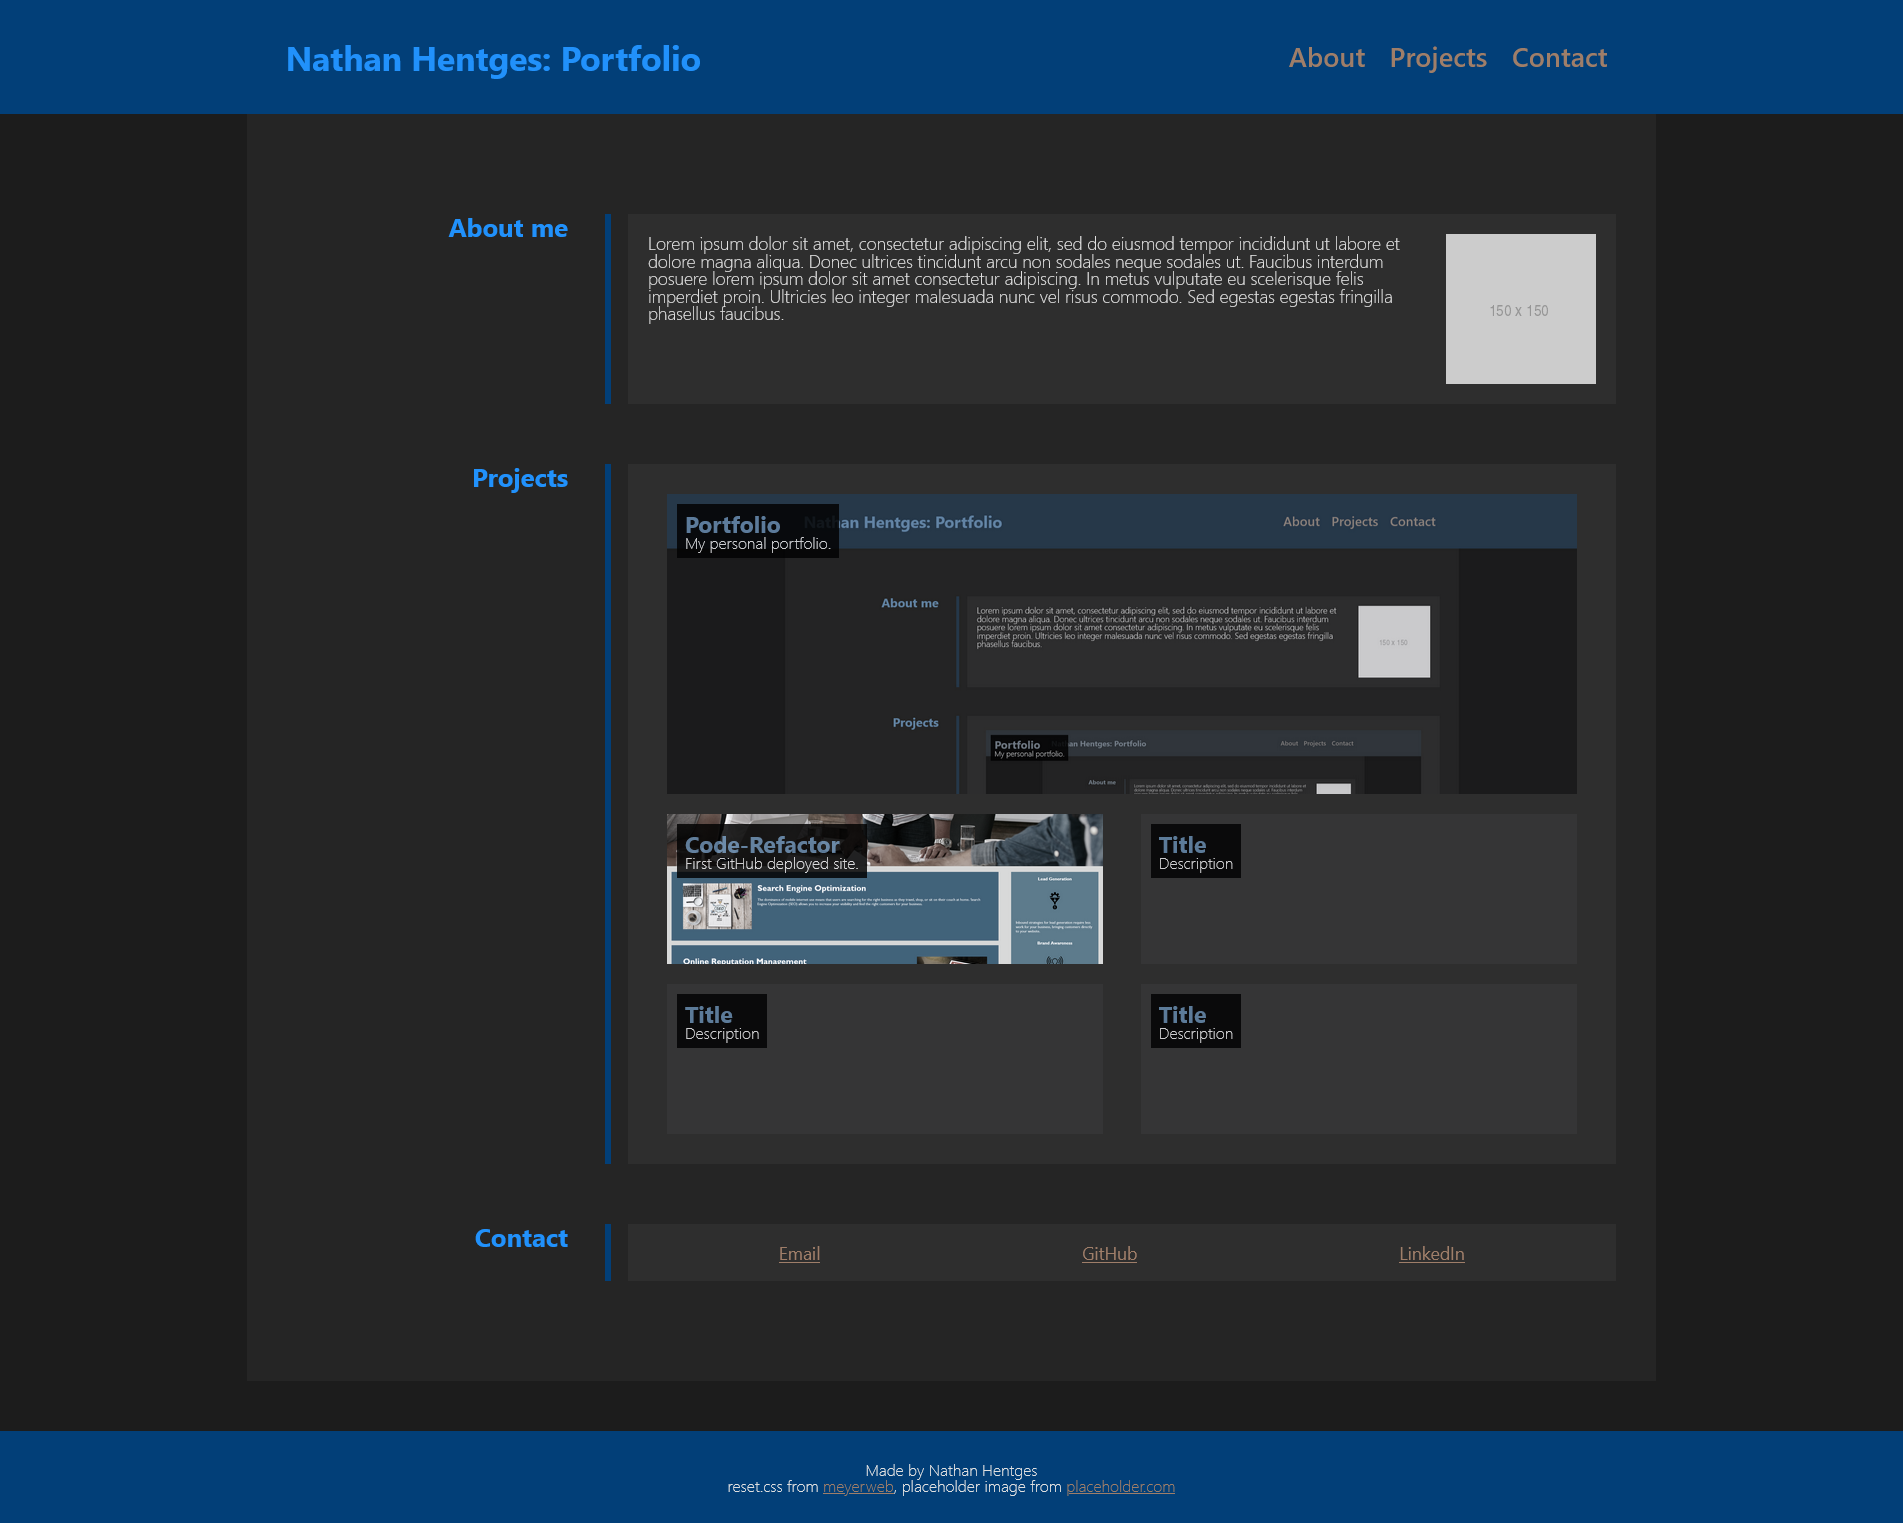
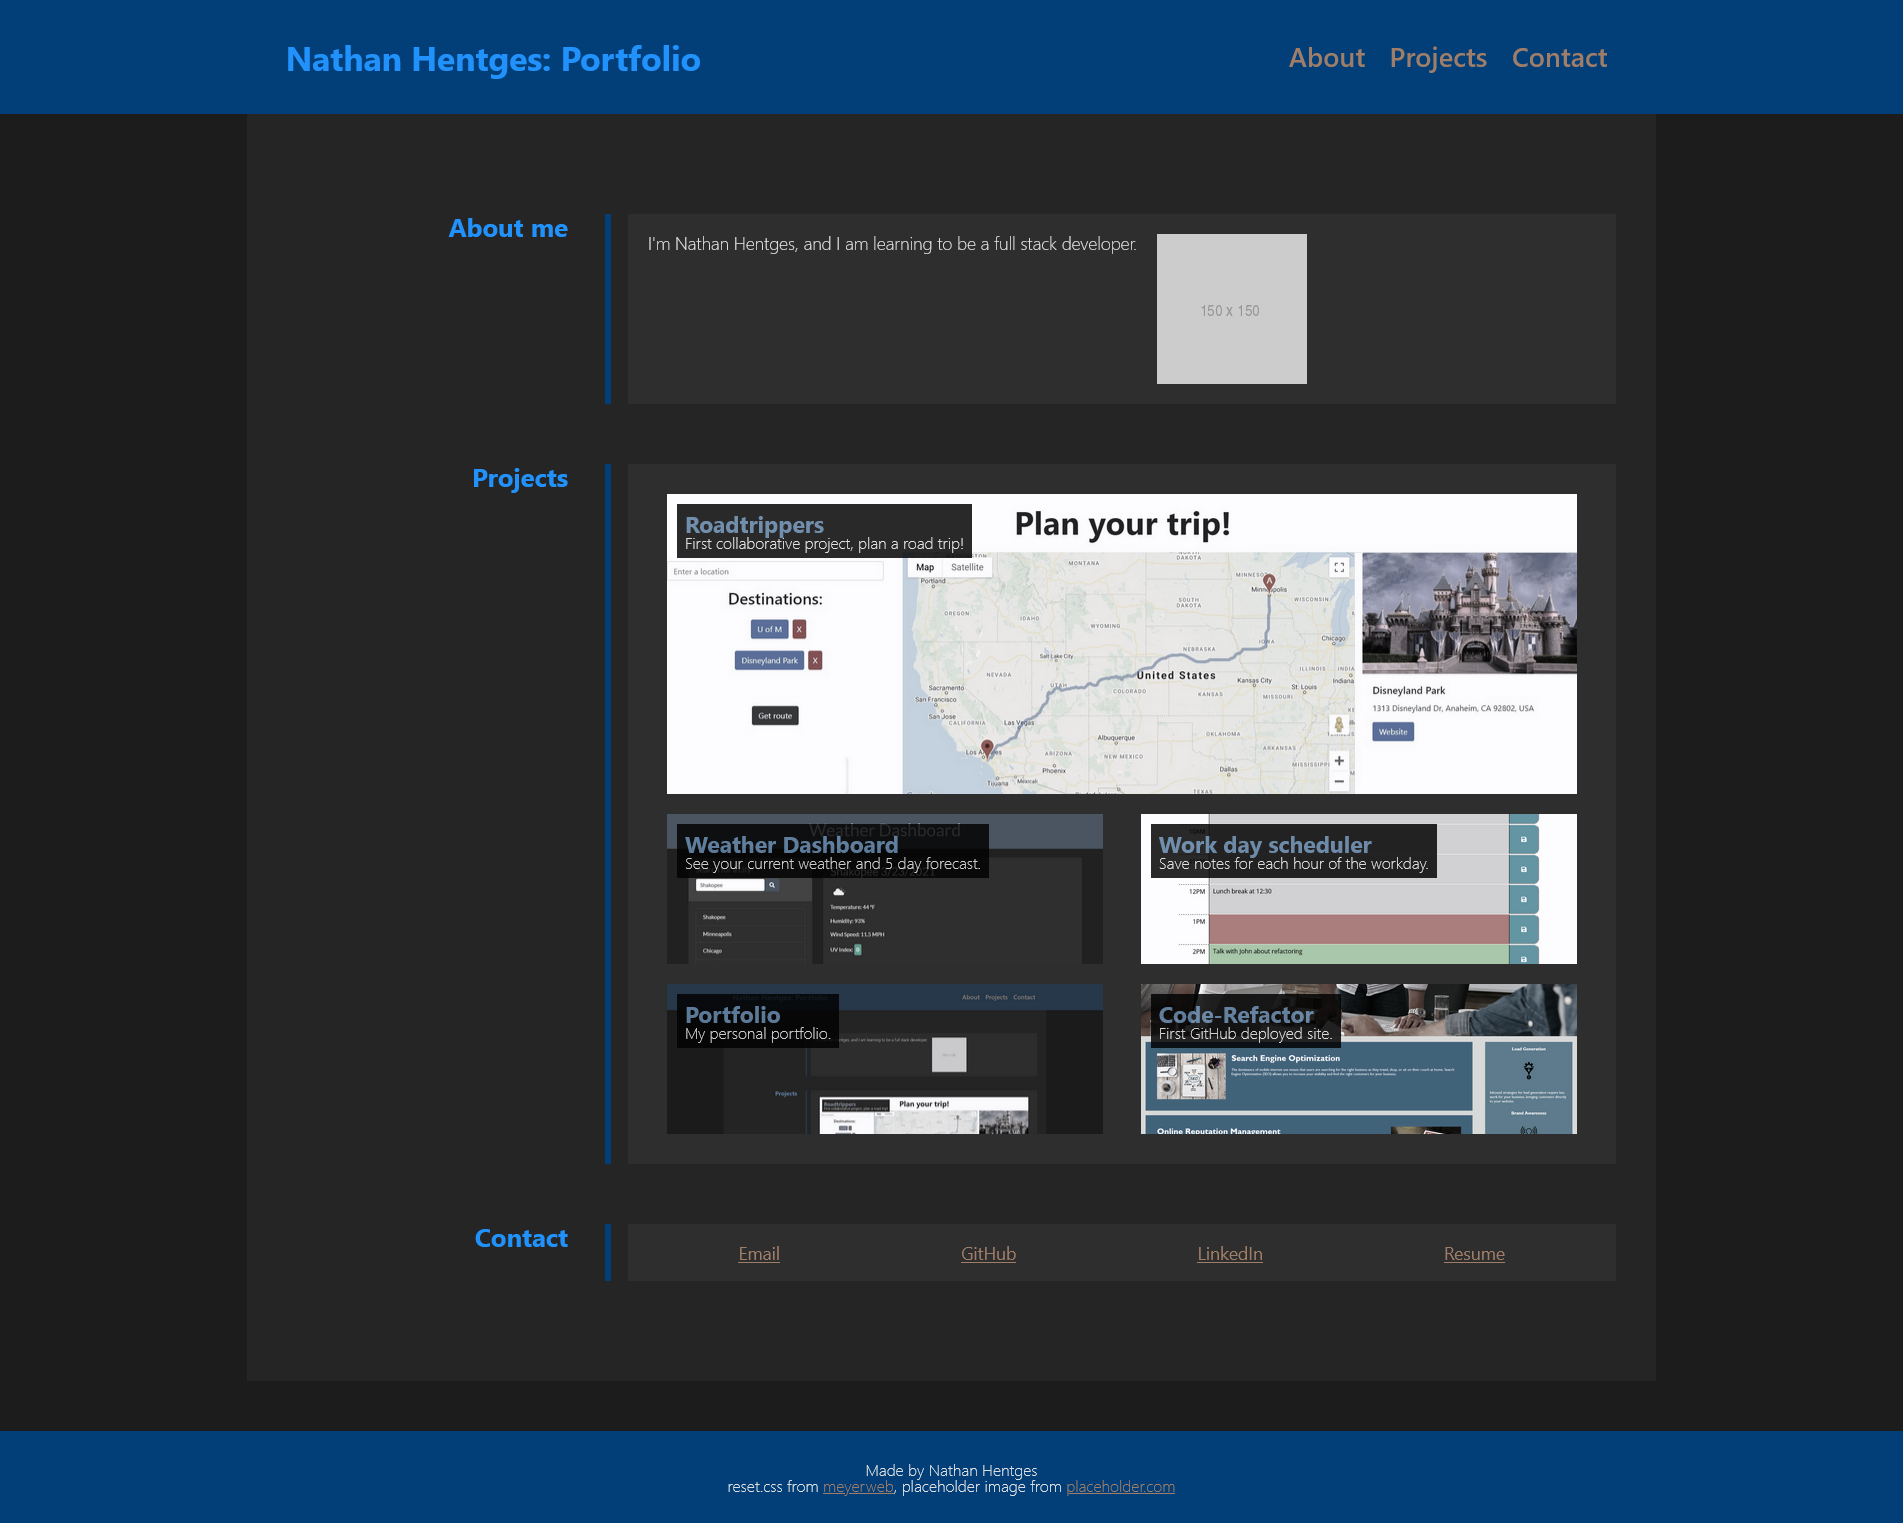
cleaned readme and updated site preview picture

diff --git a/README.md b/README.md
@@ -6,7 +6,7 @@ This is my personal project portfolio.
 
 Here I display recent projects I am proud of.
 
-It is important that it is responsive as well.
+It contains information about me and important links.
 
 ## Site link
 
